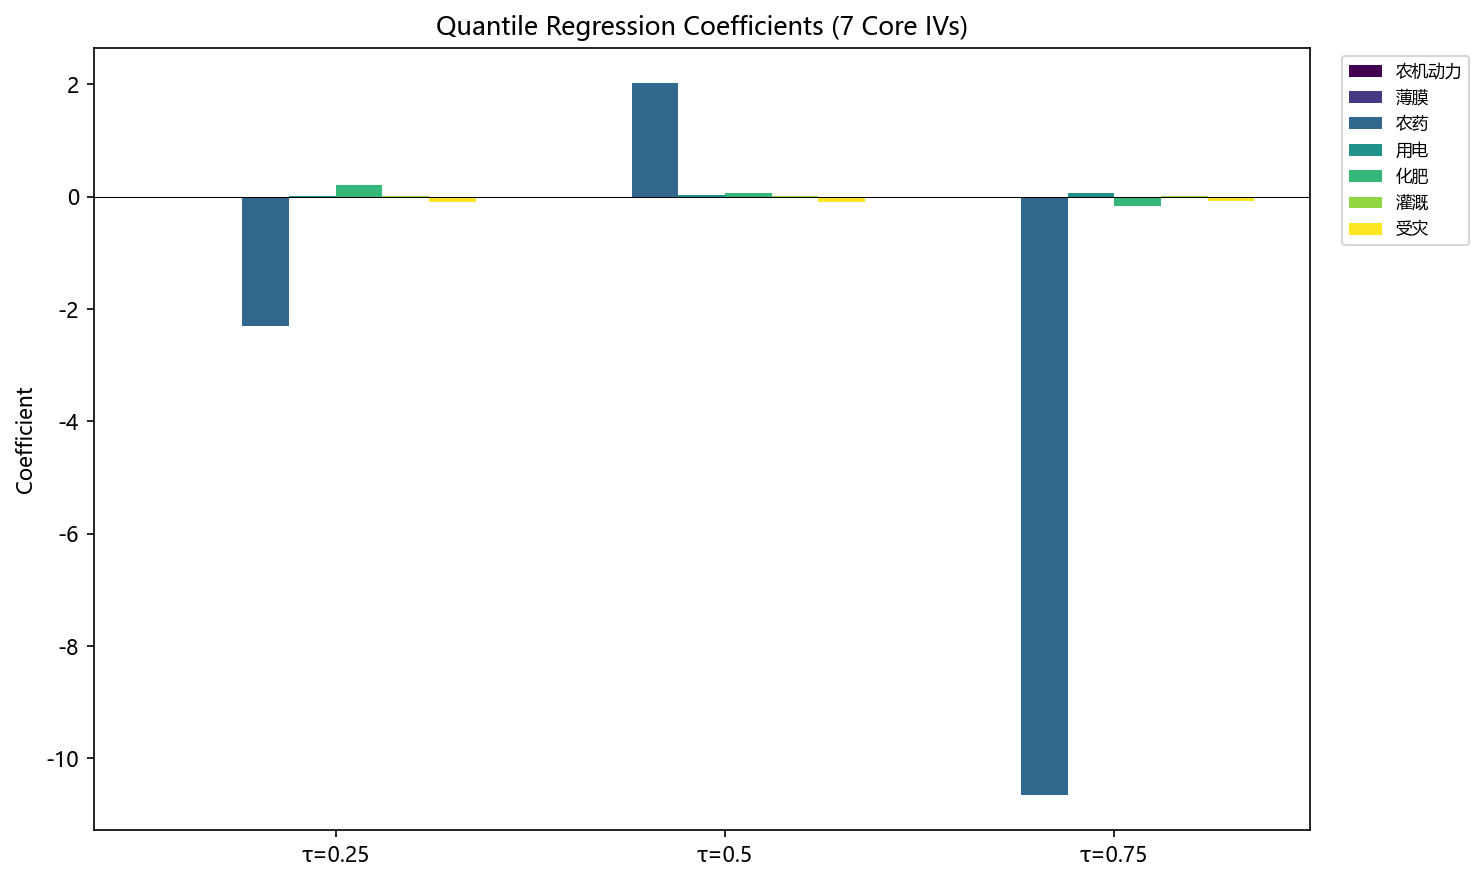
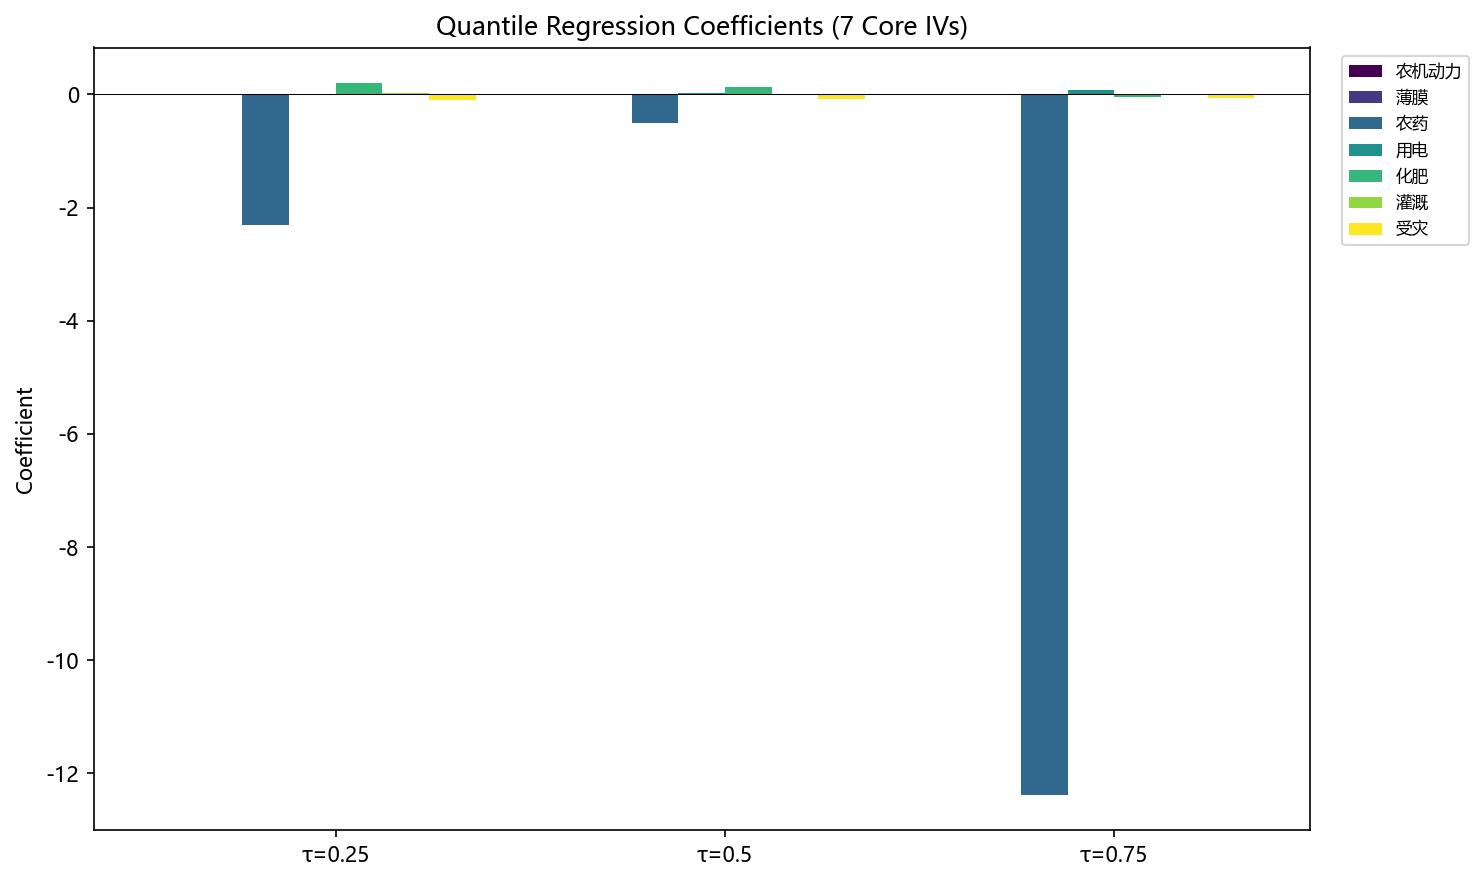
max_iter changed

diff --git a/StatisticsProcessing/QuantileRegression/quantile_regression.py b/StatisticsProcessing/QuantileRegression/quantile_regression.py
@@ -118,7 +118,7 @@ def main():
         logger.info("=" * 60)
         logger.info("分位数回归 τ=%.2f", tau)
         model = sm.QuantReg(y, X)
-        result = model.fit(q=tau, max_iter=5000)
+        result = model.fit(q=tau, max_iter=100000)
         results[tau] = result
         logger.info("Pseudo R² = %.4f", result.prsquared)
 